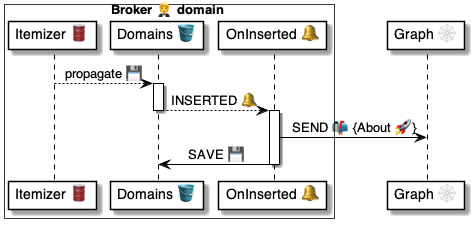
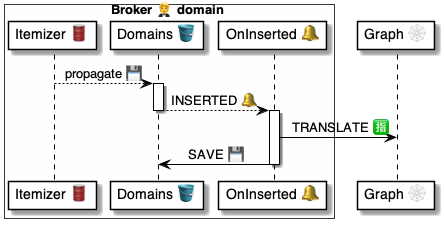
.

diff --git a/4 ⚙ Solution/20 🧑🦰 UI/Brokers 🤵/🤵🪣 Broker tables/Domains 👥 table/🪣 Domains/🤵 Broker.Domains 🪣 table.md b/4 ⚙ Solution/20 🧑🦰 UI/Brokers 🤵/🤵🪣 Broker tables/Domains 👥 table/🪣 Domains/🤵 Broker.Domains 🪣 table.md
@@ -32,16 +32,18 @@ Prefix: Broker
 Table: Domains
 Item: Domain
 Key: Name, Wallet
-
-Handlers:
-    OnDomainInserted:       # Call About@Graph
-        Events: INSERTED 
-    OnDomainLocalized:      # Call Translate@Graph
-        Events: UPDATED
-        Assert: New.Language
-    OnDomainUnbound:        # Set Binds to REMOVED
-        Events: UNBOUND
 ```
+
+Here's the [Item 🛢 Handlers](<../../../../../30 🧩 Data/Datasets 🪣/🪣🛢 Itemized datasets/Item 🛢 Handlers.md>) definition.    
+
+```yaml
+Handlers:
+    UNBOUND  >> OnDomainUnbound:    # Sets Bind.State: REMOVED
+    INSERTED >> OnDomainInserted:   # Calls About@Graph
+    UPDATED  >> OnDomainLocalized:  # Calls TRANSLATE
+        Assert: New.Language
+```
+Handlers: [`OnDomainInserted`](<../🪣🧱 1 Inserted 🔔 event/🤵 OnDomainInserted 🔔 handler.md>) [`OnDomainUnbound`](<../🪣🧱 3 Unbound 🔔 event/🤵 OnDomainUnbound 🔔 handler.md>) [`OnDomainLocalized`](<../🪣🧱 2 Localized 🔔 event/🤵 OnDomainLocalized 🔔 handler.md>)
 
 <br/>
 

diff --git a/4 ⚙ Solution/20 🧑🦰 UI/Brokers 🤵/🤵🪣 Broker tables/Domains 👥 table/🪣🧱 1 Inserted 🔔 event/🤵 OnDomainInserted 🔔 handler.md b/4 ⚙ Solution/20 🧑🦰 UI/Brokers 🤵/🤵🪣 Broker tables/Domains 👥 table/🪣🧱 1 Inserted 🔔 event/🤵 OnDomainInserted 🔔 handler.md
@@ -23,13 +23,9 @@
     UUIDs: Wallet
 
 # Get the Domain details from the Graph
-- SEND >> $domain:
-    Header:
-        To: $.Hosted.Graph
-        Subject: About@Graph
-    Body:
-        Domain: $Domain.Name
-        Language: $Domain.Wallet.Language
+- TRANSLATE >> $domain:
+    Domain: $Domain.Name
+    To: $Domain.Wallet.Language
 
 # Save the Domain info
 - SAVE|$Domain:
